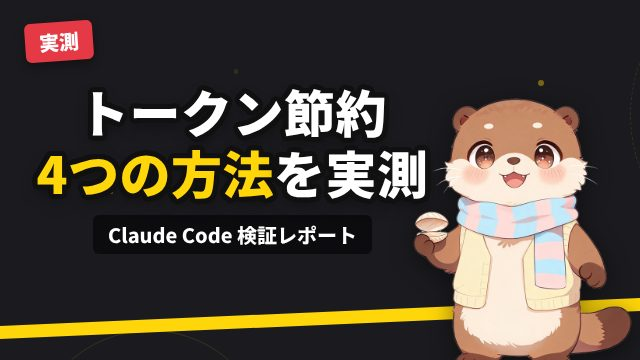
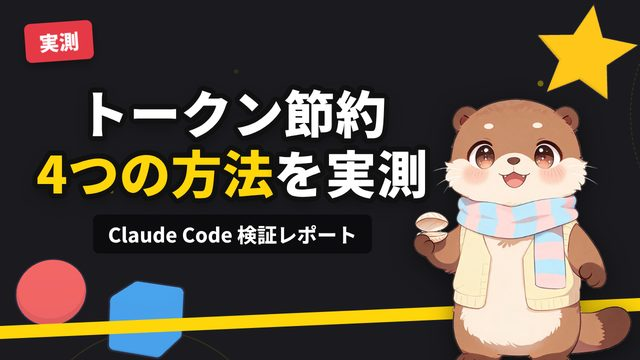
手順書 (manual.html) を最新の見た目と設定に更新
- テーマ比較・statement・ranking・サムネイルの画面例を、3D スタイルと顔だけのキャラクターで撮り直し、
  kids テーマの画面例を追加
- 3D オブジェクト図鑑 (ShapeCatalog) の画像と、画像に書き出すコマンドを追加
- 口の速さ (MOUTH_HOLD_FRAMES)・3D のカードの厚み・3D オブジェクトや scene3d の配置の変更場所を
  「細かい設定を変える」に追記し、キャラクターと出現アニメーションの説明を更新

Claude-Session: https://claude.ai/code/session_018uyttXZdRnE53yjFnEWyZZ

diff --git a/docs/manual.html b/docs/manual.html
@@ -207,7 +207,11 @@ footer { max-width: 960px; margin: 0 auto; padding: var(--sp-3) var(--sp-2); col
   </tbody>
 </table>
 </div>
-<p>形の見た目は、Remotion Studio（<code>npm run dev</code>）の左の一覧の <code>ShapeCatalog</code> で一覧できます（<code>npx remotion still ShapeCatalog out/shapes.png</code> で画像にもできます）。</p>
+<p>形の見た目は下の図鑑のとおりです。Remotion Studio（<code>npm run dev</code>）の左の一覧の <code>ShapeCatalog</code> でも同じものを見られ、<code>npx remotion still ShapeCatalog out/shapes.png</code> で画像にもできます。</p>
+<figure>
+  <img src="images/shape-catalog.jpg" alt="3D オブジェクト図鑑。cube・ball・sun・cloud・drop・apple・rocket・robot など48種の 3D オブジェクトが8列6行に並び、それぞれの下に形のキーと日本語の説明" loading="lazy">
+  <figcaption>3D オブジェクト図鑑（<code>ShapeCatalog</code>）。各オブジェクトの下が <code>shape</code> に書くキーです。</figcaption>
+</figure>
 <p>タイトル（<code>title</code>）と章扉（<code>section</code>）の content に <code>"objects": ["cloud", "drop", "sun"]</code> のように形のキーを書くと、そのオブジェクトがまわりに浮かびます（省略時は星・ボールなどの既定の形）。見本は <code>templates/sample-kids-3d.json</code>（「雨はどうしてふるの？」約3分）です。</p>
 
 <div class="callout">
@@ -219,22 +223,23 @@ footer { max-width: 960px; margin: 0 auto; padding: var(--sp-3) var(--sp-2); col
 <p>次の演出は、台本に特別なことを書かなくても自動で入ります。どれも <a href="#meta">meta</a> の設定で弱めたり止めたりできます。</p>
 
 <div class="feature">
-  <div><b>動く画面</b><p>要素がバネの動きで弾むように出現します（8種類）。見出しは1文字ずつ出て、背景はゆっくり漂い、カメラも少しずつズームし続けます。</p></div>
+  <div><b>動く画面</b><p>要素がバネの動きで弾むように出現します（平面8種類＋立体4種類）。見出しは1文字ずつ出て、背景はゆっくり漂い、カメラも少しずつズームし続けます（3D スタイルでは回り込んで揺れます）。</p></div>
   <div><b>シーン切り替え</b><p>スライド・ワイプ・ズーム・円形などで、前後のシーンが重なりながら切り替わります。音声とはずれません。</p></div>
   <div><b>図解の動き</b><p>矢印が線を引くように伸びて点が流れる、数字がカウントアップする、棒グラフが伸びる、チェックが付く、比較の中央に VS、ランキング1位に王冠。</p></div>
   <div><b>強調</b><p>セリフに <code>focus</code> を書くと説明中の要素が拡大され、他は薄くなります。<code>**語句**</code> で字幕の色が変わります。</p></div>
   <div><b>字幕</b><p>YouTube でおなじみの縁取り文字、または帯付きの字幕。テーマに合わせて自動で選ばれます。</p></div>
   <div><b>効果音とBGM</b><p>出現の「ポン」、切り替えの「シュッ」、強調の「チーン」を自動で配置。BGM はナレーション中だけ音量が下がります。</p></div>
-  <div><b>喋るキャラクター</b><p>右下の丸い枠に、カワウソの顔だけが出ます。体や顔は動かず、動くのは口だけで、口の形は音声の大きさから自動で作られます。サムネイルには全身で登場します。自前の画像にも差し替えられます。</p></div>
+  <div><b>喋るキャラクター</b><p>右下の丸い枠に、カワウソの顔だけが出ます。体や顔は動かず、動くのは口だけです。口の形は音声の大きさから自動で作られ、見やすいように1秒に6回ほどのゆっくりした速さで変わります。サムネイルには全身で登場します。自前の画像にも差し替えられます。</p></div>
   <div><b>登録の導線</b><p>動画の途中に「チャンネル登録」のポップアップ（カーソルがクリックする演出）。最後は終了画面の枠付きエンディング。</p></div>
 </div>
 
 <h3>テーマ（配色）は4種類</h3>
-<p>既定は子ども向けの <code>kids</code>（空色の背景・はっきりした色・太い縁取り。上の 3D の画面例）です。ほかに次の3つがあります。</p>
+<p>既定は子ども向けの <code>kids</code> です。同じ比較画面を、4つのテーマで並べました（どれも既定の 3D スタイル）。</p>
 <div class="shots">
-  <figure><img src="images/theme-clean.jpg" alt="clean テーマの比較画面。淡い青の背景に白いカード、帯付きの字幕" loading="lazy"><figcaption><code>clean</code>：落ち着いた青と紺。帯付き字幕</figcaption></figure>
-  <figure><img src="images/theme-pop.jpg" alt="pop テーマの比較画面。クリーム色の背景に太枠のカード、縁取り字幕と右下のキャラクター" loading="lazy"><figcaption><code>pop</code>：太枠・黄色マーカー・縁取り字幕</figcaption></figure>
-  <figure><img src="images/theme-dark.jpg" alt="dark テーマの比較画面。濃紺の背景に青く光るアクセント" loading="lazy"><figcaption><code>dark</code>：濃紺地のテック系</figcaption></figure>
+  <figure><img src="images/theme-kids.jpg" alt="kids テーマの比較画面。空色の背景に厚みのあるカード、縁取り字幕、右下の丸い枠にカワウソの顔" loading="lazy"><figcaption><code>kids</code>（既定）：空色の背景・はっきりした色・縁取り字幕</figcaption></figure>
+  <figure><img src="images/theme-clean.jpg" alt="clean テーマの比較画面。淡い青の背景に厚みのある白いカード、帯付きの字幕" loading="lazy"><figcaption><code>clean</code>：落ち着いた青と紺。帯付き字幕</figcaption></figure>
+  <figure><img src="images/theme-pop.jpg" alt="pop テーマの比較画面。クリーム色の背景に太枠のカード、縁取り字幕と右下の丸い枠のキャラクター" loading="lazy"><figcaption><code>pop</code>：太枠・黄色マーカー・縁取り字幕</figcaption></figure>
+  <figure><img src="images/theme-dark.jpg" alt="dark テーマの比較画面。濃紺の背景と床のグリッドに、青く光るアクセント" loading="lazy"><figcaption><code>dark</code>：濃紺地のテック系</figcaption></figure>
 </div>
 
 <h2 id="prep">準備する</h2>
@@ -303,6 +308,7 @@ footer { max-width: 960px; margin: 0 auto; padding: var(--sp-3) var(--sp-2); col
     <tr><td><code>npm run youtube</code><span class="tag">新</span></td><td>概要欄の目次・字幕ファイルを作成（<code>out/youtube/</code>）</td></tr>
     <tr><td><code>npm run build:youtube</code><span class="tag">新</span></td><td>render → thumbnail → youtube をまとめて実行</td></tr>
     <tr><td><code>npm run sfx</code><span class="tag">新</span></td><td>効果音を作り直す（音を変えたいときだけ）</td></tr>
+    <tr><td><code>npx remotion still ShapeCatalog out/shapes.png</code><span class="tag">新</span></td><td>3D オブジェクト図鑑を画像に書き出す</td></tr>
     <tr><td><code>npm run typecheck</code></td><td>型チェック</td></tr>
   </tbody>
 </table>
@@ -327,8 +333,8 @@ npm run youtube     # → out/youtube/description.txt, captions.srt, metadata.js
 </div>
 
 <figure>
-  <img src="images/thumbnail.jpg" alt="自動生成されたサムネイルの例。濃い背景に縁取りの大きな文字で「トークン節約 4つの方法を実測」" style="max-width:480px" loading="lazy">
-  <figcaption>サムネイルの例。<code>**強調**</code> した語句は色が変わります。</figcaption>
+  <img src="images/thumbnail.jpg" alt="自動生成されたサムネイルの例。濃い背景に縁取りの大きな文字で「トークン節約 4つの方法を実測」、右に全身のカワウソ、まわりに星やボールの 3D オブジェクト" style="max-width:480px" loading="lazy">
+  <figcaption>サムネイルの例。<code>**強調**</code> した語句は色が変わります。3D スタイルでは、タイトルシーンの <code>objects</code>（なければ星やボール）の 3D オブジェクトも浮かびます。</figcaption>
 </figure>
 
 <div class="callout">
@@ -414,7 +420,7 @@ npm run youtube     # → out/youtube/description.txt, captions.srt, metadata.js
 
 <div class="shots">
   <figure><img src="images/statement.jpg" alt="statement レイアウトの例。中央に大きく「コンテキストを半分以下に保てる」、強調部分に黄色のマーカー" loading="lazy"><figcaption><code>statement</code>：結論や驚きの事実を大きく見せる</figcaption></figure>
-  <figure><img src="images/ranking.jpg" alt="ranking レイアウトの例。1位から3位のカードが並び、1位は金色の枠と王冠" loading="lazy"><figcaption><code>ranking</code>：1位は王冠付きで強調</figcaption></figure>
+  <figure><img src="images/ranking.jpg" alt="ranking レイアウトの例。1位から3位の厚みのあるカードが並び、1位は金色の枠と王冠" loading="lazy"><figcaption><code>ranking</code>：1位は王冠付きで強調</figcaption></figure>
 </div>
 
 <h3>アイコンと素材集</h3>
@@ -583,7 +589,11 @@ npm run audio &amp;&amp; npm run build:youtube</code></pre>
     <tr><td><code>TRANSITION_FRAMES</code></td><td>18フレーム（シーン切り替えの長さ。半分は LEAD / TAIL 以下）</td><td><code>shared/timing.ts</code></td></tr>
     <tr><td>バネの硬さ（<code>SPRINGS</code>）</td><td>出現の弾み具合</td><td><code>src/animation/presets.ts</code></td></tr>
     <tr><td>トランジションの見た目</td><td>slide / wipe などの動き</td><td><code>src/animation/transitions.ts</code></td></tr>
-    <tr><td>テーマの配色・カードの枠や影</td><td>clean / pop / dark</td><td><code>src/themes/index.ts</code></td></tr>
+    <tr><td>テーマの配色・カードの枠や影</td><td>kids / clean / pop / dark</td><td><code>src/themes/index.ts</code></td></tr>
+    <tr><td>3D スタイルのカードの厚み（<code>DEPTH_3D</code>）</td><td>12px</td><td><code>src/themes/index.ts</code></td></tr>
+    <tr><td>キャラクターの口の速さ（<code>MOUTH_HOLD_FRAMES</code>）</td><td>5フレーム（口の形を保つ長さ。1秒に約6回）。大きくするとゆっくり、小さくすると速くなる</td><td><code>src/components/Avatar.tsx</code></td></tr>
+    <tr><td>3D オブジェクトの形・色</td><td>形のキーと既定色 / 形そのもの</td><td><code>src/three/catalog.ts</code> / <code>src/three/models.tsx</code></td></tr>
+    <tr><td>scene3d の配置・カメラの動き</td><td>並べ方・大きさ・回り込み</td><td><code>src/three/stage.ts</code></td></tr>
     <tr><td>効果音の音色</td><td>pop / whoosh / ding / click</td><td><code>scripts/lib/sfx.ts</code>（変更後に <code>npm run sfx</code>）</td></tr>
   </tbody>
 </table>
